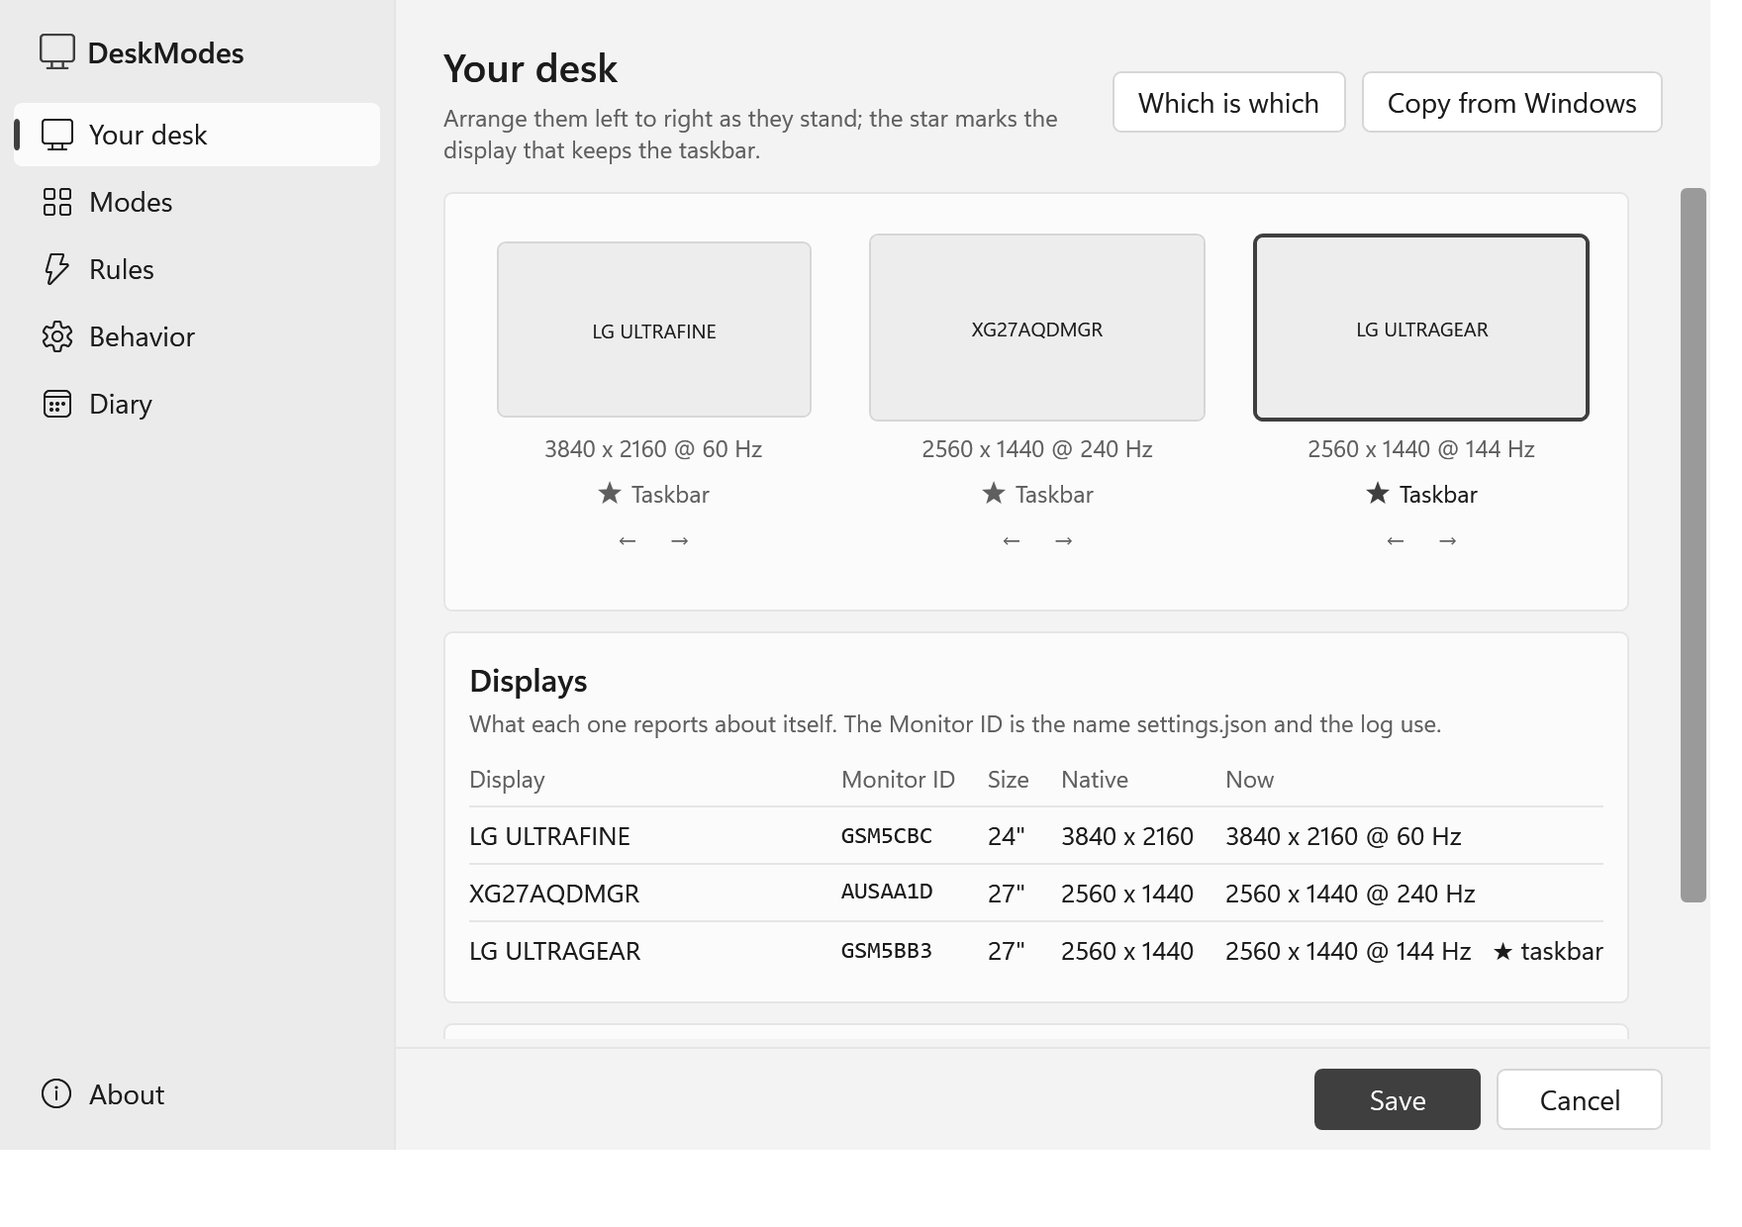
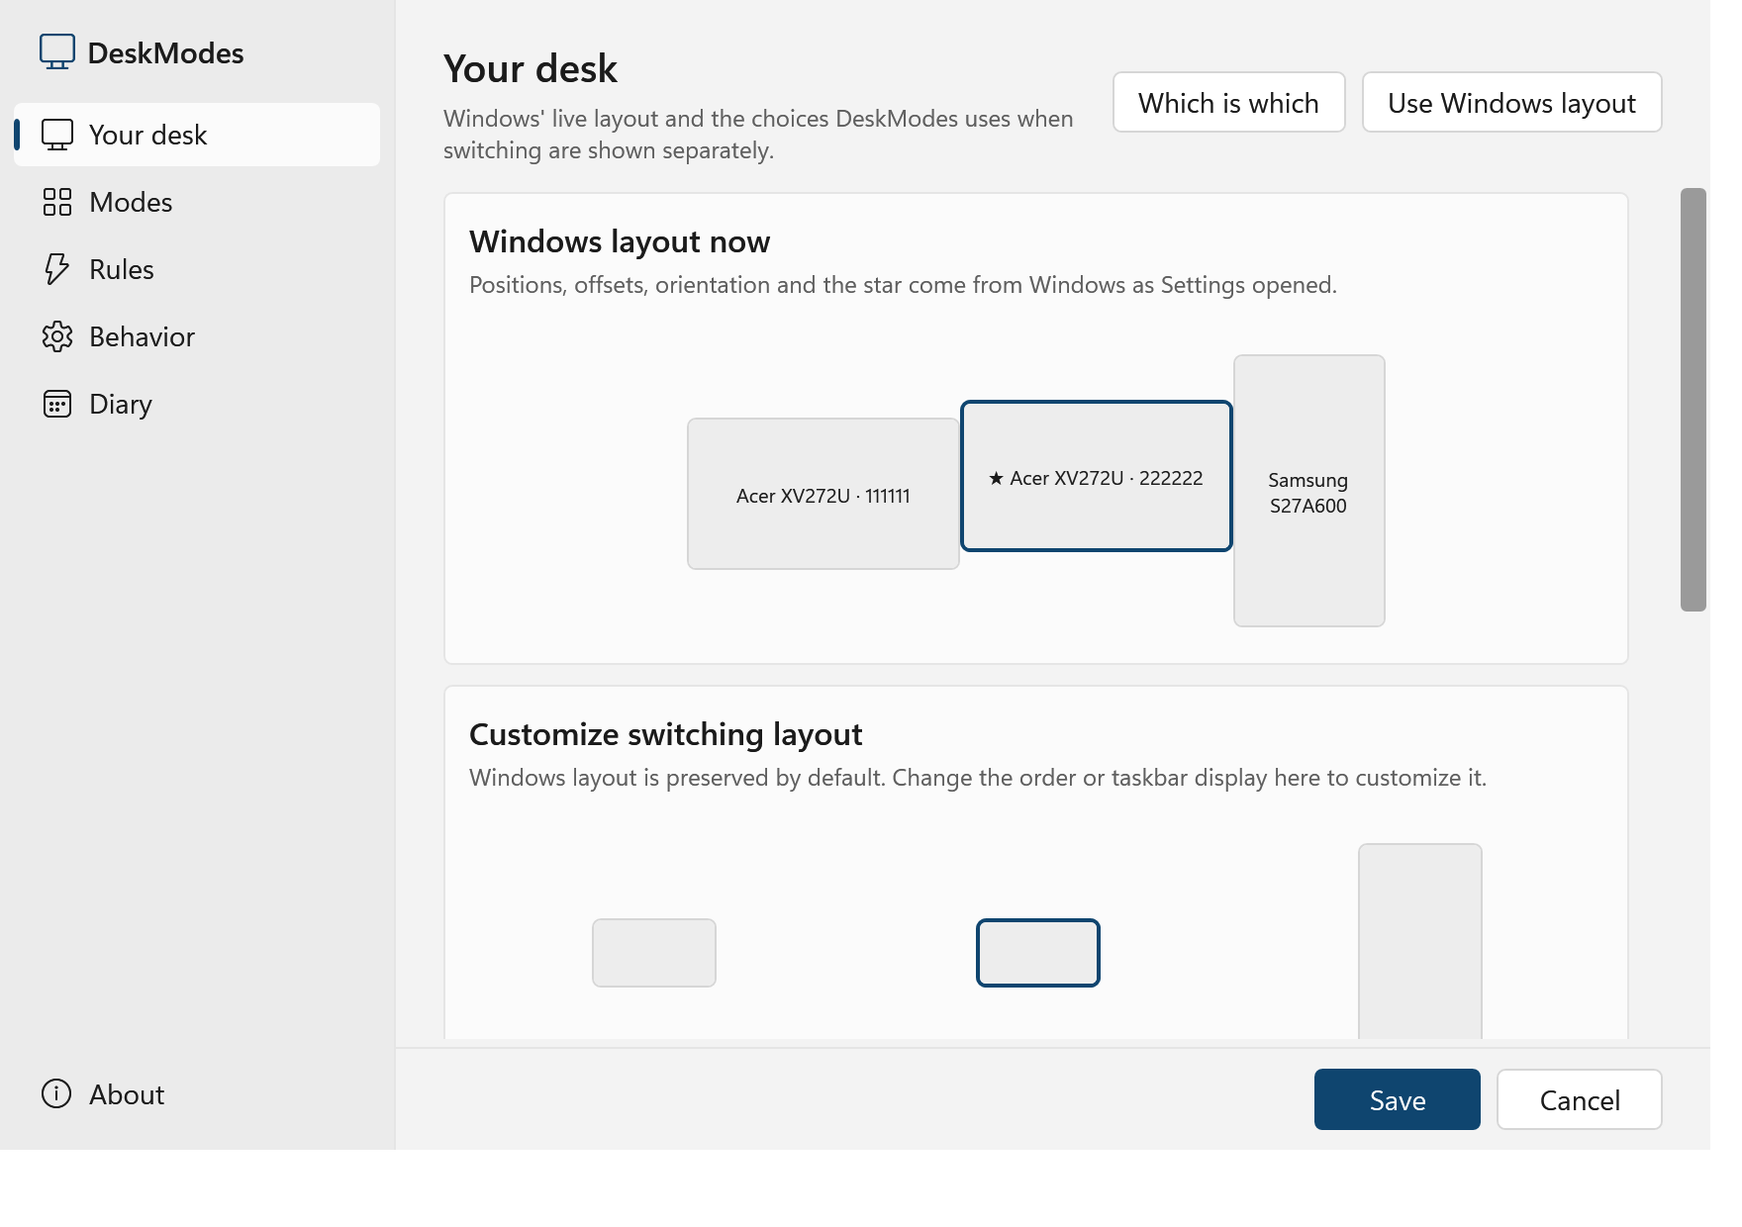
Document preserved desktop behavior and verify localized failures

diff --git a/docs/reference.md b/docs/reference.md
@@ -9,8 +9,8 @@ Turn the displays on your desk on and off in named sets, with one hotkey.
 
 `Ctrl+Alt+F1` — only the 4K panel. `Ctrl+Alt+F3` — both work displays. `Ctrl+Alt+F5` —
 everything. The displays you did not ask for go to standby; the ones you did come up in
-their best mode, arranged in the physical order you gave them, with the taskbar on the
-display you chose.
+their remembered Windows configuration, with their positions, orientation and taskbar
+placement preserved. Explicit per-mode choices can override the primary display.
 
 No installer, no service, no dependencies — a folder of PowerShell scripts talking to the
 Windows display API. Disable startup and exit the tray before deleting the folder.
@@ -26,10 +26,10 @@ Every one of these exists because the naive version broke on a real desk:
 - **Any combination you can name.** "Movie night" is the 4K panel plus the TV with the
   taskbar moved to the TV — one display can be part of any number of combinations, each
   with its own menu entry, hotkey and taskbar placement.
-- **Keeps the arrangement.** Windows re-orders displays whenever a monitor comes back, so
-  the cursor leaves the left screen to the right. You state the physical order once; every
-  switch rebuilds it, vertically centred so the cursor can cross between panels of
-  different heights.
+- **Keeps the arrangement.** Before changing sets, DeskModes records the physical displays,
+  their X/Y positions, orientation, resolution, exact refresh rates and primary. Returning
+  to that set restores its snapshot; repeating All preserves the live desktop. Explicit
+  arrow editing can instead request a vertically centred left-to-right row.
 - **Keeps the taskbar put.** "Primary" in Windows is not a flag, it is whoever sits at
   (0, 0) — so the whole layout is shifted to put your chosen display there.
 - **Restores refresh rates.** Windows silently drops a display to a lower rate after a
@@ -90,13 +90,14 @@ Everything is set up in one window: a pane on the left, a page on the right, **S
 **Cancel** underneath. It follows the system theme — dark, light and your accent colour — and
 it can be resized; where it stood and which page you left it on come back with it.
 
-**Your desk** is the picture above. The display cards are drawn to the size of the panels
-themselves — read out of each monitor's EDID, not guessed from its resolution — so the row is
-the layout rather than a picture of it, and the table under it says what each display reports
-about itself. Two buttons stand in the page's head: **Copy from Windows** puts the cards in the
-order Windows holds right now and stars the display that has the taskbar — right or wrong, so it
-is for the desk you have already arranged in Windows settings, where it makes the first run one
-click; **Which is which** shows each display's name on it for a moment.
+**Your desk** separates the Windows layout from explicit switching choices. The live diagram
+uses Windows coordinates and display dimensions, including portrait orientation and Y offsets;
+its star identifies the current primary. The switching row lets you deliberately change order
+or choose a different taskbar display. An unrelated Save preserves the existing choices.
+**Use Windows layout** reads the current arrangement, adopts it as the complete desktop
+snapshot and clears row/primary overrides. **Which is which** shows each display's concise
+name on its physical screen. Identical panels keep distinct titles and exact internal bindings.
+Left-click the tray icon to open Settings, or right-click for its switching menu.
 
 A display you have switched off at its own button is still there, marked `not connected`. Some
 monitors leave the DisplayPort bus when they go dark, and Windows then stops mentioning them
@@ -251,10 +252,12 @@ Written by the Settings window, and safe to edit by hand. See
 | Key | What it is |
 | --- | --- |
 | `hotkeys` | mode key → keys, e.g. `"combo:Work": "Ctrl+Alt+F3"`. One entry is not a mode: `"back"` is the shortcut that returns to the mode you left |
-| `layout` | display names left to right, as they physically stand on your desk |
-| `primary` | which display gets the taskbar, when it is among those switched on |
+| `layout` | display names for an explicitly configured left-to-right row |
+| `layoutOverride` | apply that row instead of saved Windows coordinates; set by arrow editing, cleared by Use Windows layout |
+| `primary` | which display gets the taskbar when `primaryOverride` is enabled and it is among those switched on |
+| `primaryOverride` | use the explicitly selected taskbar display; absent legacy values do not override a captured desktop |
 | `combos` | combination name → `{ "displays": [...], "primary": "..." }`; a bare array works too |
-| `maximizeRefresh` | restore each display to its highest refresh rate |
+| `maximizeRefresh` | restore the highest refresh rate when no protected desktop snapshot applies; an exact saved mode takes precedence |
 | `notifications` | show a balloon after switching |
 | `restoreWindows` | remember and restore window positions per display set |
 | `restoreLastMode` | re-apply the last chosen mode after the computer starts |
@@ -597,18 +600,15 @@ displays, then move them, then fix the refresh rate) means the cursor stalls and
 forward, screens blink twice over, and every open window gets told the display changed
 three times.
 
-Two details make the single call possible. The refresh rate has to be passed as the exact
-fraction the driver uses — 144 Hz is `143999/1000` here, and asking for `144/1` gets the
-whole request rejected — so each display's real mode is remembered in `display-modes.json`
-after every switch, which is also where the rate for a *sleeping* display comes from. And
-because a single call has to name coordinates for every display, this road is only taken
-when `layout` in the settings says what the order is — or when the mode lights a single
-display, which stands at the coordinate origin whatever anybody wrote. Without either, the
-old three-step path runs, which moves only the primary and leaves the rest where they are.
-The taskbar is placed on both roads: "primary" being a place rather than a flag, that is one
-call, and it is made whether or not there is an order to arrange the rest by.
+Exact restoration uses `desktop-layouts.json`, keyed by the physical display set, with
+source coordinates, rotation and the driver's refresh fraction. It supplies that geometry
+in one CCD request and verifies the returned desktop. A refusal is reported instead of
+retrying with omitted Hz or replacing the saved orientation with a best-mode guess. The
+watchdog respects the restored modes. The snapshot is separate from the legacy best-mode
+cache in `display-modes.json`.
 
-The three steps are still there as repair: after the single call the tool checks the set,
+For a set with no complete known geometry, the fallback repair steps remain. After applying
+the set, the tool checks
 the arrangement and each mode, and fixes whatever did not take (a display that refuses a
 rate, for instance). When everything landed, those checks find nothing to do and cost
 nothing. Doing it in one call also removes the ordering problem the three steps had: the
@@ -681,7 +681,7 @@ break the "nothing is installed on your system" promise.
 | `Displays.cmd`, `all.cmd`, `work.cmd`, `game.cmd`, `status.cmd`, `diagnostics.cmd` | one-line wrappers so the tray and the common modes are double-clickable |
 | `settings.example.json` | a `settings.json` with every key filled in, to copy from |
 | `last-run.log` | the log; rotates past 1 MB |
-| `settings.json`, `window-state.json`, `last-mode.json`, `display-modes.json`, `known-displays.json`, `activity.json`, `stats.html`, `native-*.dll` | created as needed, safe to delete |
+| `settings.json`, `window-state.json`, `last-mode.json`, `desktop-layouts.json`, `display-modes.json`, `known-displays.json`, `activity.json`, `stats.html`, `native-*.dll` | created as needed, safe to delete |
 
 The release ZIP holds the program only — the scripts, the launchers and the README. The
 tests, the gates, the screenshots and the engineering notes live in the repository,

diff --git a/AGENTS.md b/AGENTS.md
@@ -170,17 +170,17 @@ Most of these are written up in `docs/notes.md`, section "Dead ends not to go ba
   what `display-modes.json` caches, and why that file exists.
 - **One `SetDisplayConfig` per switch, not three.** Each transition freezes input and
   blinks the screens. `Set-CcdFullConfig` sets the whole desk — set, positions, primary,
-  resolutions and rates — in one call; the three-step path below it is the fallback for
-  when that call is refused. It needs the display order out of the settings and refuses
-  without it — except for a single display, whose place is the origin whatever anybody wrote.
-- **`Set-CcdLayout` is the only thing that moves the primary display,** and it is called on
-  every switch — not only when `layout` says what the order is. "Primary" in Windows is a
-  place (0, 0) rather than a flag: `Set-CcdTopology` cannot move it and `Set-CcdFullConfig`
-  refuses the whole job without an order, so an `if` around this call takes the taskbar away
-  from every desk whose owner has never opened the Settings window. That `if` was there until
-  2026-09-01; see the review at the end of `docs/notes.md`. With no order the call moves
-  nobody and only anchors the primary, and when that one is at (0, 0) already it applies
-  nothing and costs a single query.
+  resolutions and rates — in one call. Exact snapshot restoration supplies every coordinate
+  and never drops Hz on refusal. Without an exact snapshot, the generated-layout path needs
+  a configured order (except for a single display) and may use the fallback repair steps.
+- **An exact desktop snapshot takes precedence over a generated row.** `desktop-layouts.json`
+  records physical identities, X/Y, rotation, resolution, exact refresh fractions and primary per
+  active display set. Its capture and writes share `Local\DeskModesSwitch` with switching and the
+  watchdog. A pending destination is not a new baseline until verified or explicitly adopted.
+  Do not follow exact restoration with `Set-CcdLayout` or best-mode repair: either can undo it.
+  `Set-CcdLayout` still anchors an explicitly chosen primary on the fallback path. Legacy `layout`
+  and `primary` values alone do not prove an intentional override; the Settings UI records that
+  intent separately. Repeating All preserves the live desk unless an explicit override is requested.
 - **`.GetNewClosure()` is banned in WPF and WinForms handlers.** Inside a closure,
   `$script:X` resolves to nothing: the Settings window got `$null` and died on
   `.Contains()`, and the menu silently showed no shortcuts. Put logic in functions
@@ -311,7 +311,8 @@ held up by two things, and a new test must not break either:
   It has to be before: log rotation and type compilation write to it during load, and
   reassigning `$script:LogFile` afterwards is too late.
 - `$script:SettingsFile`, `$script:WindowStateFile`, `$script:LastModeFile`,
-  `$script:ModeCacheFile`, `$script:KnownDisplaysFile` and `$script:ActivityFile` all point into
+  `$script:ModeCacheFile`, `$script:DesktopSnapshotsFile`, `$script:KnownDisplaysFile` and
+  `$script:ActivityFile` all point into
   one temp directory, which is removed at the end.
 
 To add a case, drop a `Test-Case` block into the matching file under `tests/cases/`.
@@ -355,7 +356,7 @@ value of this project, and no fake reproduces them.
   `Test-RunAtStartup` checks the executable, arguments and working directory. After a move,
   enable startup again in Settings to rebuild the shortcut; pinned shortcuts remain external.
 - **Do not commit generated files.** `native-*.dll`, `settings.json`, `last-mode.json`,
-  `display-modes.json`, `known-displays.json`, `window-state.json`, `ui-state.json`,
+  `display-modes.json`, `desktop-layouts.json`, `known-displays.json`, `window-state.json`, `ui-state.json`,
   `activity.json`, `stats.html`, `settings.json.bak`, `settings.json.*.tmp` and `last-run.log` belong to the machine, not to the code, and are all in `.gitignore`. So do
   `DeskModes-*.zip`, its `.sha256` and `release-notes.md` — `tools/pack.ps1` builds all
   three out of what is already committed. The screenshots under `docs/images/` are the

diff --git a/docs/release-readiness.md b/docs/release-readiness.md
@@ -9,8 +9,8 @@ The application reports 1.0.0. Its CHANGELOG heading intentionally has no releas
 `powershell.exe -NoProfile -ExecutionPolicy Bypass -File .\tools\check.ps1 -RequireAnalyzer`
 
 The local Windows PowerShell 5.1 run passes syntax, BOM/CRLF, PSScriptAnalyzer 1.25.0,
-translation keys and the regression suite. Every supported interface language has all
-291 English keys. Tests redirect machine files and shadow hardware calls; no physical
+translation keys and the regression suite. Every supported interface language covers
+the complete English key set. Tests redirect machine files and shadow hardware calls; no physical
 display switching is part of this result. The analyzer is a development tool, not a
 runtime dependency.
 
@@ -19,6 +19,12 @@ exact combination membership, refusal of ambiguous primary/CLI choices, unambigu
 mode-reference migration with and without hotkeys, damaged-settings recovery, locked-file
 save failure, stale startup shortcut targets, packaging failure and diagnostic privacy.
 A missing friendly monitor name must not leak its device path through the diagnostic model field.
+
+Desktop restoration regressions cover exact positions, flipped rotation, rational refresh rates,
+same-set preservation, first subset derivation, failed restores and repeated-failure rollback.
+The current Windows arrangement is shown separately from explicit switching customization.
+English and Russian offscreen previews verify the portrait geometry, primary marker and full
+duplicate-panel captions. These tests do not establish a successful real driver round-trip.
 
 English screenshots are refreshed in `docs/images/`. Nine offscreen WPF windows were
 rendered for English, Russian, German and French. Desk and About pages were inspected for
@@ -38,6 +44,7 @@ public reports.
 | Fresh Windows 11 | Same procedure, recording Smart App Control state without changing it for the test. A refused run must have actionable troubleshooting. | Pending |
 | One monitor | Start, configure, repeat its mode, open/close Settings and exit. No phantom monitors or failure loop. | Pending |
 | Two different monitors | Alternate solo, combination and all; verify membership, primary, positions and refresh rates. | Pending |
+| Exact three-display restoration | Two identical landscape panels plus portrait-flipped third panel at asymmetric Y. Repeat All; cycle subset/solo to All; restart in subset. Compare physical primary, every X/Y, rotation, resolution and rational Hz. | Earlier test archive reproduced destructive layout and rotation changes; fixed candidate needs hardware retest |
 | Two identical panels | Save distinct hotkeys and a one-panel combination. Reconnect in a different enumeration order; remove either panel. The remaining one keeps its key and never substitutes for the absent selection. | Pending |
 | Laptop and external display | Repeat with lid open/closed, sleep/wake and reconnect. Record the configured Windows lid action; use a visible recovery path. | Pending |
 | Dock / multiple GPUs | Record exact adapters, dock, ports and driver; test unplug/replug and wake. | Pending; experimental |
@@ -99,5 +106,4 @@ sends anything. Logs are separate and can include paths and hook commands.
 Ship the reliable named-set workflow, recovery, documentation and diagnostic path first.
 Keep optional rules, hardware controls and diary discoverable in their existing pages;
 there is no need for a new installer, service, mandatory analytics or account system.
-Arbitrary stacked monitor arrangements, automatic updates and broad hardware claims are
-separate work. A short list of tested setups is more useful than an unsupported compatibility promise.
+Automatic updates and broad hardware claims are separate work. A short list of tested setups is more useful than an unsupported compatibility promise.

diff --git a/README.md b/README.md
@@ -6,7 +6,7 @@
 **Switch the displays on your desk in named sets, with one hotkey.**
 
 Make a Work mode for two screens, a Game mode for one, and a Movie mode for the TV.
-DeskModes turns on the selected displays, restores their arrangement and refresh rates,
+DeskModes turns on the selected displays, remembers their Windows arrangement and refresh rates,
 and puts the taskbar where you chose. Switch from the tray, a shortcut or the command line.
 
 Windows 10/11 · Windows PowerShell 5.1 · No installer or service · No required downloads at runtime
@@ -26,8 +26,9 @@ use a source checkout; a version number in the application is not a published re
    user account. Keep the whole `DeskModes` folder together; do not run from inside the ZIP.
    A source checkout works too: `git clone https://github.com/GangHack/DeskModes.git`.
 2. Double-click **Displays.cmd**. The tray icon appears and Settings opens on the first run.
+   Left-click the tray icon to reopen Settings; right-click it for the switching menu.
    If Windows shows a warning, review the source and publisher before choosing to run it.
-3. On **Your desk**, use **Copy from Windows** if the current arrangement is correct,
+3. On **Your desk**, use **Use Windows layout** if the current arrangement is correct,
    or arrange the cards and choose the taskbar display. In **Modes**, add a combination,
    select its displays and set a hotkey. Press **Save**.
 4. Switch using the tray menu or your hotkey. Enable **Start with Windows** in Behavior
@@ -39,8 +40,9 @@ The `.cmd` launchers choose Windows PowerShell 5.1 even if your terminal uses Po
 
 ## What comes with a mode
 
-- The selected displays, their left-to-right order and the primary display.
-- Refresh-rate restoration and window positions per display set.
+- The selected displays and their saved Windows positions, orientation, resolution, refresh rate
+  and primary display. Repeating All displays preserves the current desktop.
+- Window positions per display set and optional explicit arrangement overrides.
 - Optional brightness, contrast, remembered picture preset, HDR and playback device.
 - Optional commands before/after switching and rules for processes, idle time or connected displays.
 - **Back to the previous mode**, plus recovery of the previous display set if none of the
@@ -56,8 +58,9 @@ when you copy and send them yourself.
   PowerShell 7 is refused. Managed devices may enforce a policy that prevents scripts running.
 - Keep the folder writable: settings, backups and the locally compiled API cache live beside
   the scripts. The program does not install a service or change your global execution policy.
-- Arrangement is a **left-to-right row**, vertically centred. Arbitrary stacked monitor layouts
-  are not preserved by a configured row; check this before using Copy from Windows.
+- Desktop snapshots remember the arrangement observed before a switch. Start with a correct
+  Windows layout: the program cannot reconstruct positions lost before a snapshot existed.
+  Explicit row editing remains available when you want an automatically centred row.
 - DDC/CI, picture presets, HDR and wake-up time depend on the display, cable, dock and driver.
   The controls are optional. No monitor-capabilities-string probing is performed.
 - Identical models use a connection fingerprint to distinguish instances. A different port

diff --git a/CHANGELOG.md b/CHANGELOG.md
@@ -11,6 +11,10 @@ The release ZIP's SHA256 verifies the downloaded bytes against the published arc
 
 ### Display modes
 
+- Preserve an already active All displays desktop; capture and restore physical monitor X/Y,
+  primary, orientation (including flipped portrait), resolution and exact refresh rates.
+  A refused restoration cannot silently replace the saved desktop with a damaged result.
+
 - Named combinations, a mode for each display and an all-displays mode, available through
   tray menu, global hotkeys and CLI. Configure everything in the Settings window.
 - Display membership, arrangement, primary display and exact driver refresh fractions applied
@@ -30,7 +34,11 @@ The release ZIP's SHA256 verifies the downloaded bytes against the published arc
 
 ### Interface and support
 
-- Resizable WPF Settings and system-themed tray menu. First-run Settings, Copy from Windows,
+- Left-click the tray icon to open Settings; right-click retains the switching menu.
+- Your desk shows live Windows geometry and primary separately from explicit row editing.
+  Identical displays have concise distinct titles without changing their saved identities.
+
+- Resizable WPF Settings and system-themed tray menu. First-run Settings, Use Windows layout,
   display-identification badges, keyboard shortcuts and per-mode editors.
 - English, Russian, Ukrainian, Spanish, French and German. Logs and command-line output stay English.
 - Settings saved through complete file replacement with a previous-good backup and recovery.
